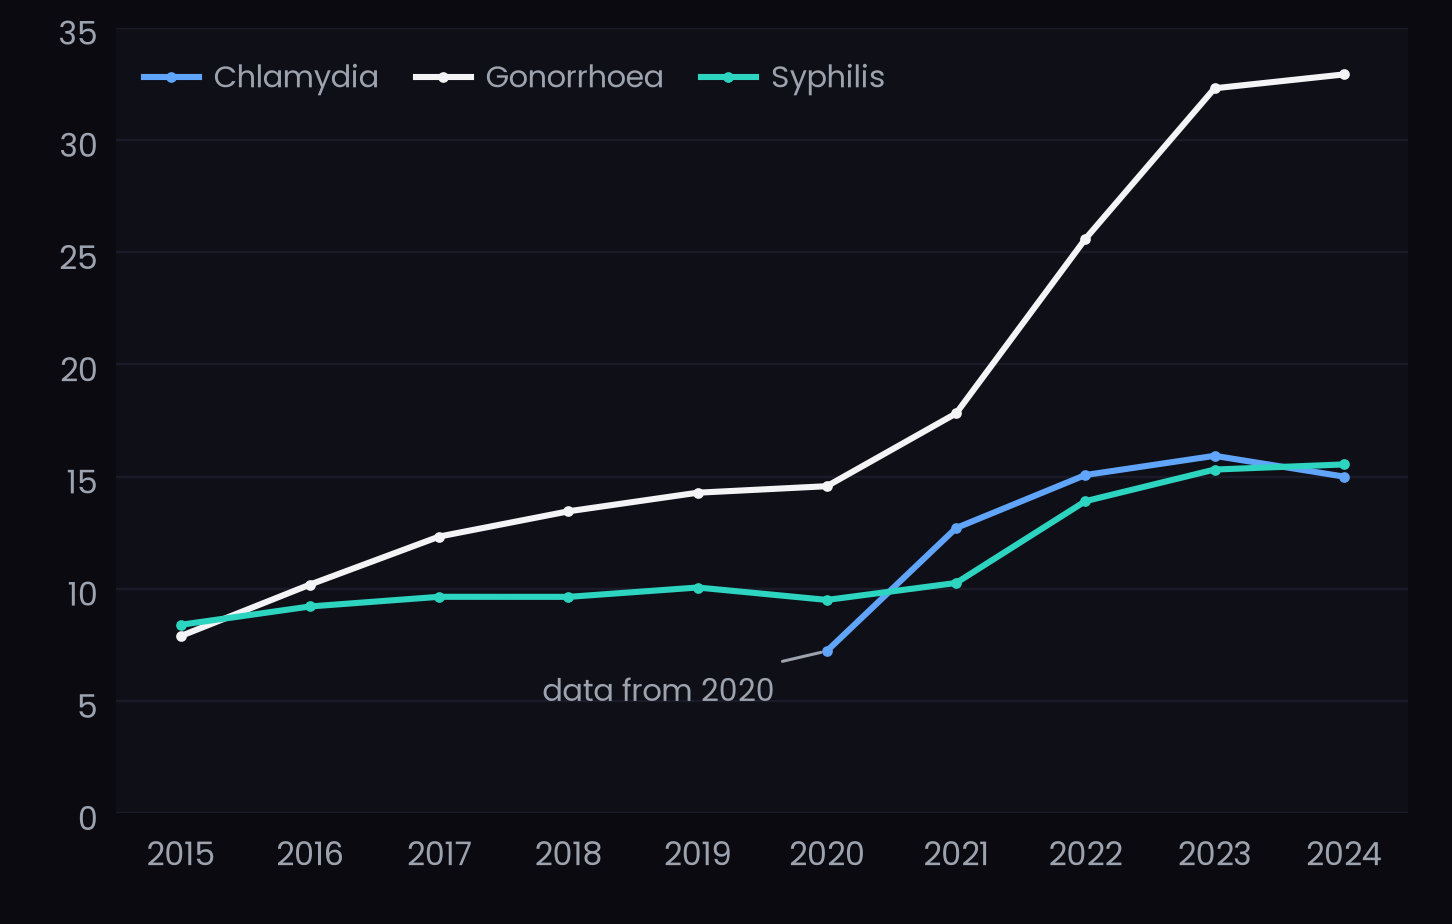
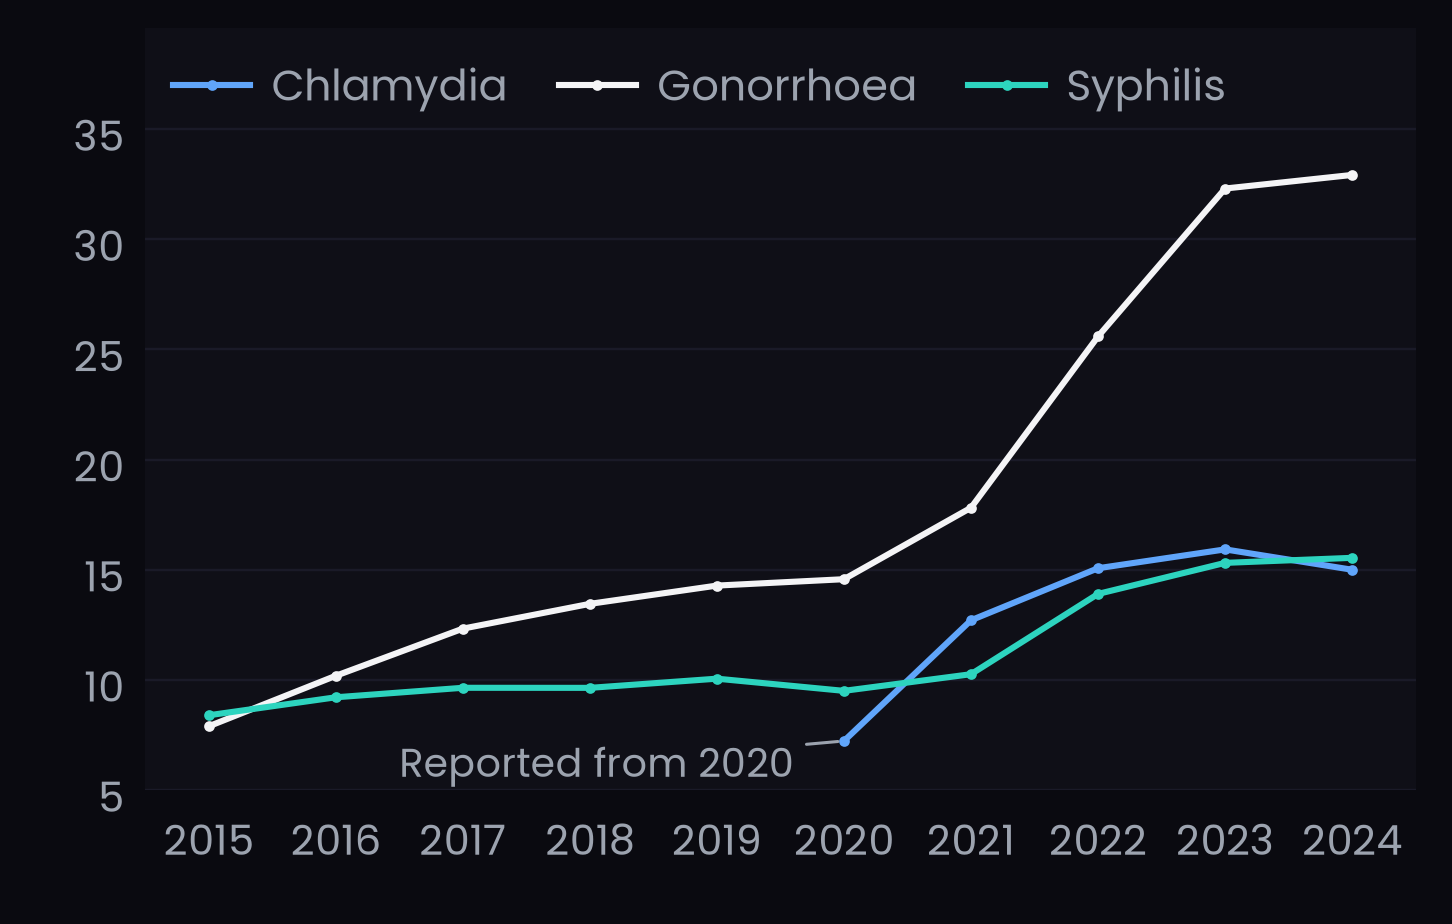
Charts update 2

diff --git a/index.html b/index.html
@@ -2374,7 +2374,7 @@
           aria-haspopup="dialog"
           aria-controls="chartOverlay"
           >record highs across Europe</button
-        >. Let's fight them together: AfterCare closes the notification gap that anonymous encounters leave open.
+        >. Let's fight them together!<br />AfterCare closes the notification gap that anonymous encounters leave open.
       </p>
 
       <div class="chain reveal" style="--d: 4" aria-label="How early notification helps">

diff --git a/data/generate-charts.py b/data/generate-charts.py
@@ -37,6 +37,11 @@ FONT_REG = os.path.join(FONT_DIR, 'Poppins-Regular.ttf')
 fm.fontManager.addfont(FONT_REG)
 POPPINS    = fm.FontProperties(fname=FONT_REG)
 
+# Legend.__init__ ignores `fontsize` whenever `prop` is also given, so the
+# legend size has to ride along on the FontProperties itself.
+POPPINS_LEGEND = POPPINS.copy()
+POPPINS_LEGEND.set_size(14)
+
 # ── data files ────────────────────────────────────────────────────────────────
 FILES = {
     'gon_gen': 'Gonorrhoea - Confirmed cases - Reported cases.csv',
@@ -77,23 +82,27 @@ def vals(d):
     return [d.get(y) for y in YEARS]
 
 
-def style_ax(ax, ymax=None):
+def style_ax(ax, ymin=0, ymax=None, yticks=None):
     ax.yaxis.grid(True, color=GRID, linewidth=0.8, zorder=0)
     ax.xaxis.grid(False)
     ax.set_axisbelow(True)
     for spine in ax.spines.values():
         spine.set_visible(False)
     ax.tick_params(axis='both', which='both', length=0, colors=GRAY,
-                   labelsize=10.5, pad=6)
+                   labelsize=13.5, pad=7)
     ax.set_xticks(YEARS)
     ax.set_xticklabels([str(y) for y in YEARS],
-                       fontproperties=POPPINS, fontsize=10.5, color=GRAY)
+                       fontproperties=POPPINS, fontsize=13.5, color=GRAY)
+    ax.set_xlim(2014.5, 2024.5)
+    ax.set_ylim(bottom=ymin, top=ymax)
+    # Ticks stop at the last labelled value so the legend band above it
+    # has no gridline running through the labels.
+    if yticks is not None:
+        ax.set_yticks(yticks)
     for lbl in ax.get_yticklabels():
         lbl.set_fontproperties(POPPINS)
-        lbl.set_fontsize(10.5)
+        lbl.set_fontsize(13.5)
         lbl.set_color(GRAY)
-    ax.set_xlim(2014.5, 2024.5)
-    ax.set_ylim(bottom=0, top=ymax)
     ax.set_ylabel('')
 
 
@@ -105,10 +114,11 @@ def make_fig():
 
 
 def finish(fig, ax, filename, ncol=3):
-    ax.legend(loc='upper left', frameon=False, prop=POPPINS, fontsize=11,
+    ax.legend(loc='upper left', frameon=False, prop=POPPINS_LEGEND,
               labelcolor=GRAY, ncol=ncol, columnspacing=1.2,
-              handlelength=1.8, handletextpad=0.5)
-    plt.subplots_adjust(left=0.08, right=0.97, top=0.97, bottom=0.12)
+              handlelength=1.8, handletextpad=0.5, borderaxespad=0.25)
+    # Bigger tick labels need more room than the old 0.08/0.12 left behind.
+    plt.subplots_adjust(left=0.10, right=0.975, top=0.97, bottom=0.145)
     out = os.path.join(HERE, '..', 'visual-assets', filename)
     fig.savefig(out, dpi=220, facecolor=BG)
     plt.close()
@@ -127,7 +137,9 @@ fig, ax = make_fig()
 ax.plot(YEARS, vals(chl_gen), color=BLUE,  marker='o', label='Chlamydia',  **LW)
 ax.plot(YEARS, vals(gon_gen), color=WHITE, marker='o', label='Gonorrhoea', **LW)
 ax.plot(YEARS, vals(syp_gen), color=TEAL,  marker='o', label='Syphilis',   **LW)
-style_ax(ax, ymax=250)
+# Headroom above 250 so the legend sits in an empty band — no extra tick,
+# so no gridline under the labels.
+style_ax(ax, ymin=0, ymax=292, yticks=range(0, 251, 50))
 finish(fig, ax, 'chart-sti-general.png')
 
 
@@ -143,10 +155,12 @@ fig, ax = make_fig()
 ax.plot(chl_years, chl_vals,      color=BLUE,  marker='o', label='Chlamydia',  **LW)
 ax.plot(YEARS,     vals(gon_msm), color=WHITE, marker='o', label='Gonorrhoea', **LW)
 ax.plot(YEARS,     vals(syp_msm), color=TEAL,  marker='o', label='Syphilis',   **LW)
-style_ax(ax, ymax=35)
-ax.annotate('data from 2020',
+# Unpinned from 0: series sit between ~7 and 33. Headroom above 35 so
+# the legend band has no gridline.
+style_ax(ax, ymin=5, ymax=39.6, yticks=range(5, 36, 5))
+ax.annotate('Reported from 2020',
             xy=(2020, chl_msm[2020]),
-            xytext=(2017.8, 5),
-            fontproperties=POPPINS, fontsize=10, color=GRAY,
+            xytext=(2016.5, 5.6),
+            fontproperties=POPPINS, fontsize=13, color=GRAY,
             arrowprops=dict(arrowstyle='-', color=GRAY, lw=1))
 finish(fig, ax, 'chart-sti-msm.png')
